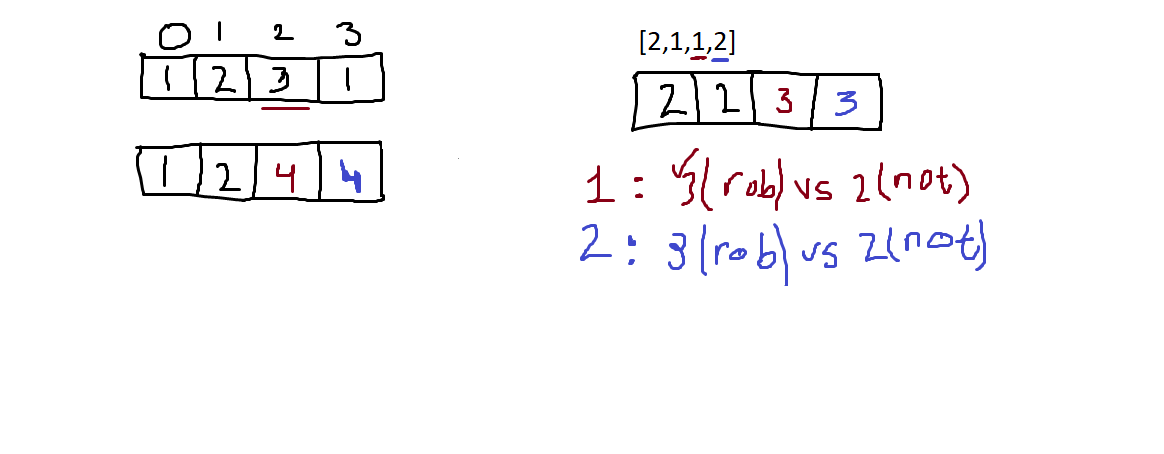
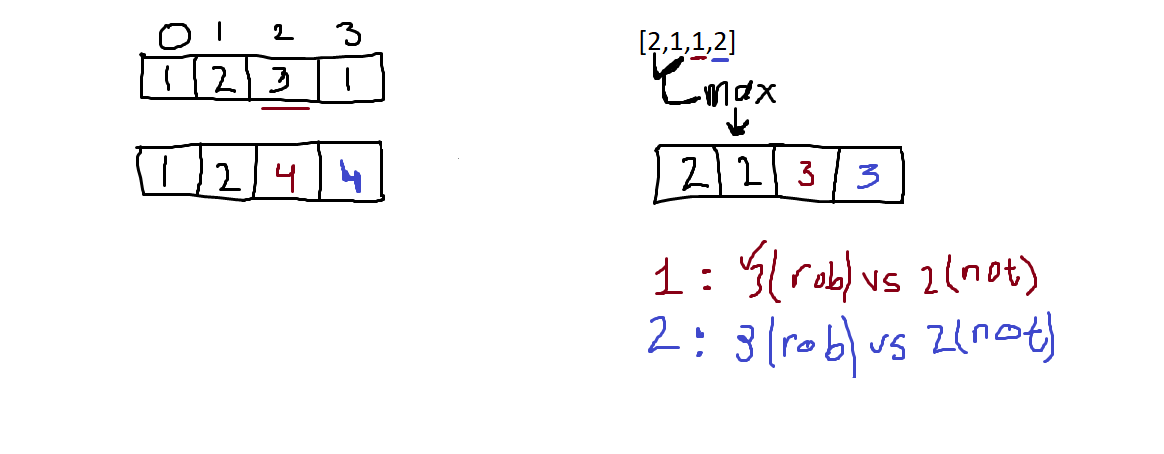
Revise Problem 198

diff --git a/dynamic programming/198. House Robber/code.py b/dynamic programming/198. House Robber/code.py
@@ -1,25 +1,114 @@
 from typing import List
 
+# Recursion
+'''
 class Solution:
     def rob(self, nums: List[int]) -> int:
         n = len(nums)
 
-        # Edge cases
-        if n == 1: return nums[0]
-        if n == 2: return max(nums[0], nums[1])
+        if n == 1:
+            return nums[0]
         
-        # Initialize dp table
+        def solve(i):
+            # Base case
+            if i >= n:
+                return 0
+
+            # For 1 step
+            skip = solve(i+1)
+                
+
+            # Recursive calculation
+            rob = nums[i] + solve(i+2)
+
+            return max(skip, rob)
+        
+        # Return the answer      
+        return solve(0)
+    
+
+obj = Solution()
+print(obj.rob([1, 2, 3, 1]))            # 4
+print(obj.rob([2, 7, 9, 3, 1]))         # 12
+
+# T.C: O(2 ^ N)
+# S.C: O(N)
+'''
+
+
+
+# Memoization
+'''
+class Solution:
+    def rob(self, nums: List[int]) -> int:
+        # Memo table
+        memo = {}
+
+        n = len(nums)
+
+        if n == 1:
+            return nums[0]
+        
+        def solve(i):
+            # Lookup in memo for quick result
+            if i in memo:
+                return memo[i]
+            
+            # Base case
+            if i >= n:
+                return 0
+
+            # Skip: Adjacent
+            skip = solve(i+1)
+                
+            # Rob: Current & 2nd previous
+            rob = nums[i] + solve(i+2)
+
+            # Max money should be robbed
+            memo[i] = max(skip, rob)
+            return memo[i]
+        
+        # Return the answer      
+        return solve(0)
+    
+
+obj = Solution()
+print(obj.rob([1, 2, 3, 1]))            # 4
+print(obj.rob([2, 7, 9, 3, 1]))         # 12
+
+# T.C: O(N)
+# S.C: O(N)
+'''
+
+
+
+# Tabulation
+class Solution:
+    def rob(self, nums: List[int]) -> int:
+        n = len(nums)
+        
+        # DP table, (n)th position holds answer
         dp = [0] * (n)
 
-        # Initial cases
+        if n == 1:
+            return nums[0]
+
+        # Set default values
         dp[0] = nums[0]
         dp[1] = max(nums[0], nums[1])
 
-        # Maximum b/w left or robbed
+        # Looping till n
         for i in range(2, n):
-            dp[i] = max(dp[i-1], dp[i-2]+nums[i])
+            # Skip: Adjacent
+            skip = dp[i-1]
+            
+            # Rob: Current & 2nd previous
+            rob = nums[i] + dp[i-2]
+            
+            # Max money should be robbed
+            dp[i] = max(skip, rob)
 
-        # Return answer for n-1
+        # Return answer
         return dp[n-1]
 
 
@@ -29,3 +118,41 @@ print(obj.rob([2, 7, 9, 3, 1]))         # 12
 
 # T.C: O(N)
 # S.C: O(N)
+
+
+
+# 2 Var
+'''
+class Solution:
+    def rob(self, nums: List[int]) -> int:
+        n = len(nums)
+
+        if n == 1:
+            return nums[0]
+
+        # Set default values
+        rob1 = nums[0]
+        rob2 = max(nums[0], nums[1])
+
+        # Looping till n
+        for i in range(2, n):
+            # Calculation
+            temp = max(nums[i] + rob1, rob2)
+
+            # Move var1 to next position
+            rob1 = rob2
+            
+            # Move var2 to next position
+            rob2 = temp
+
+        # Return answer
+        return rob2
+
+
+obj = Solution()
+print(obj.rob([1, 2, 3, 1]))            # 4
+print(obj.rob([2, 7, 9, 3, 1]))         # 12
+
+# T.C: O(N)
+# S.C: O(1)
+'''

diff --git a/dynamic programming/746. Min Cost Climbing Stairs/code.py b/dynamic programming/746. Min Cost Climbing Stairs/code.py
@@ -169,5 +169,5 @@ print(obj.minCostClimbingStairs([10, 15, 20]))                                  
 print(obj.minCostClimbingStairs([1, 100, 1, 1, 1, 100, 1, 1, 100, 1]))          # 6
 
 # T.C: O(N)
-# S.C: O(N)
+# S.C: O(1)
 '''
